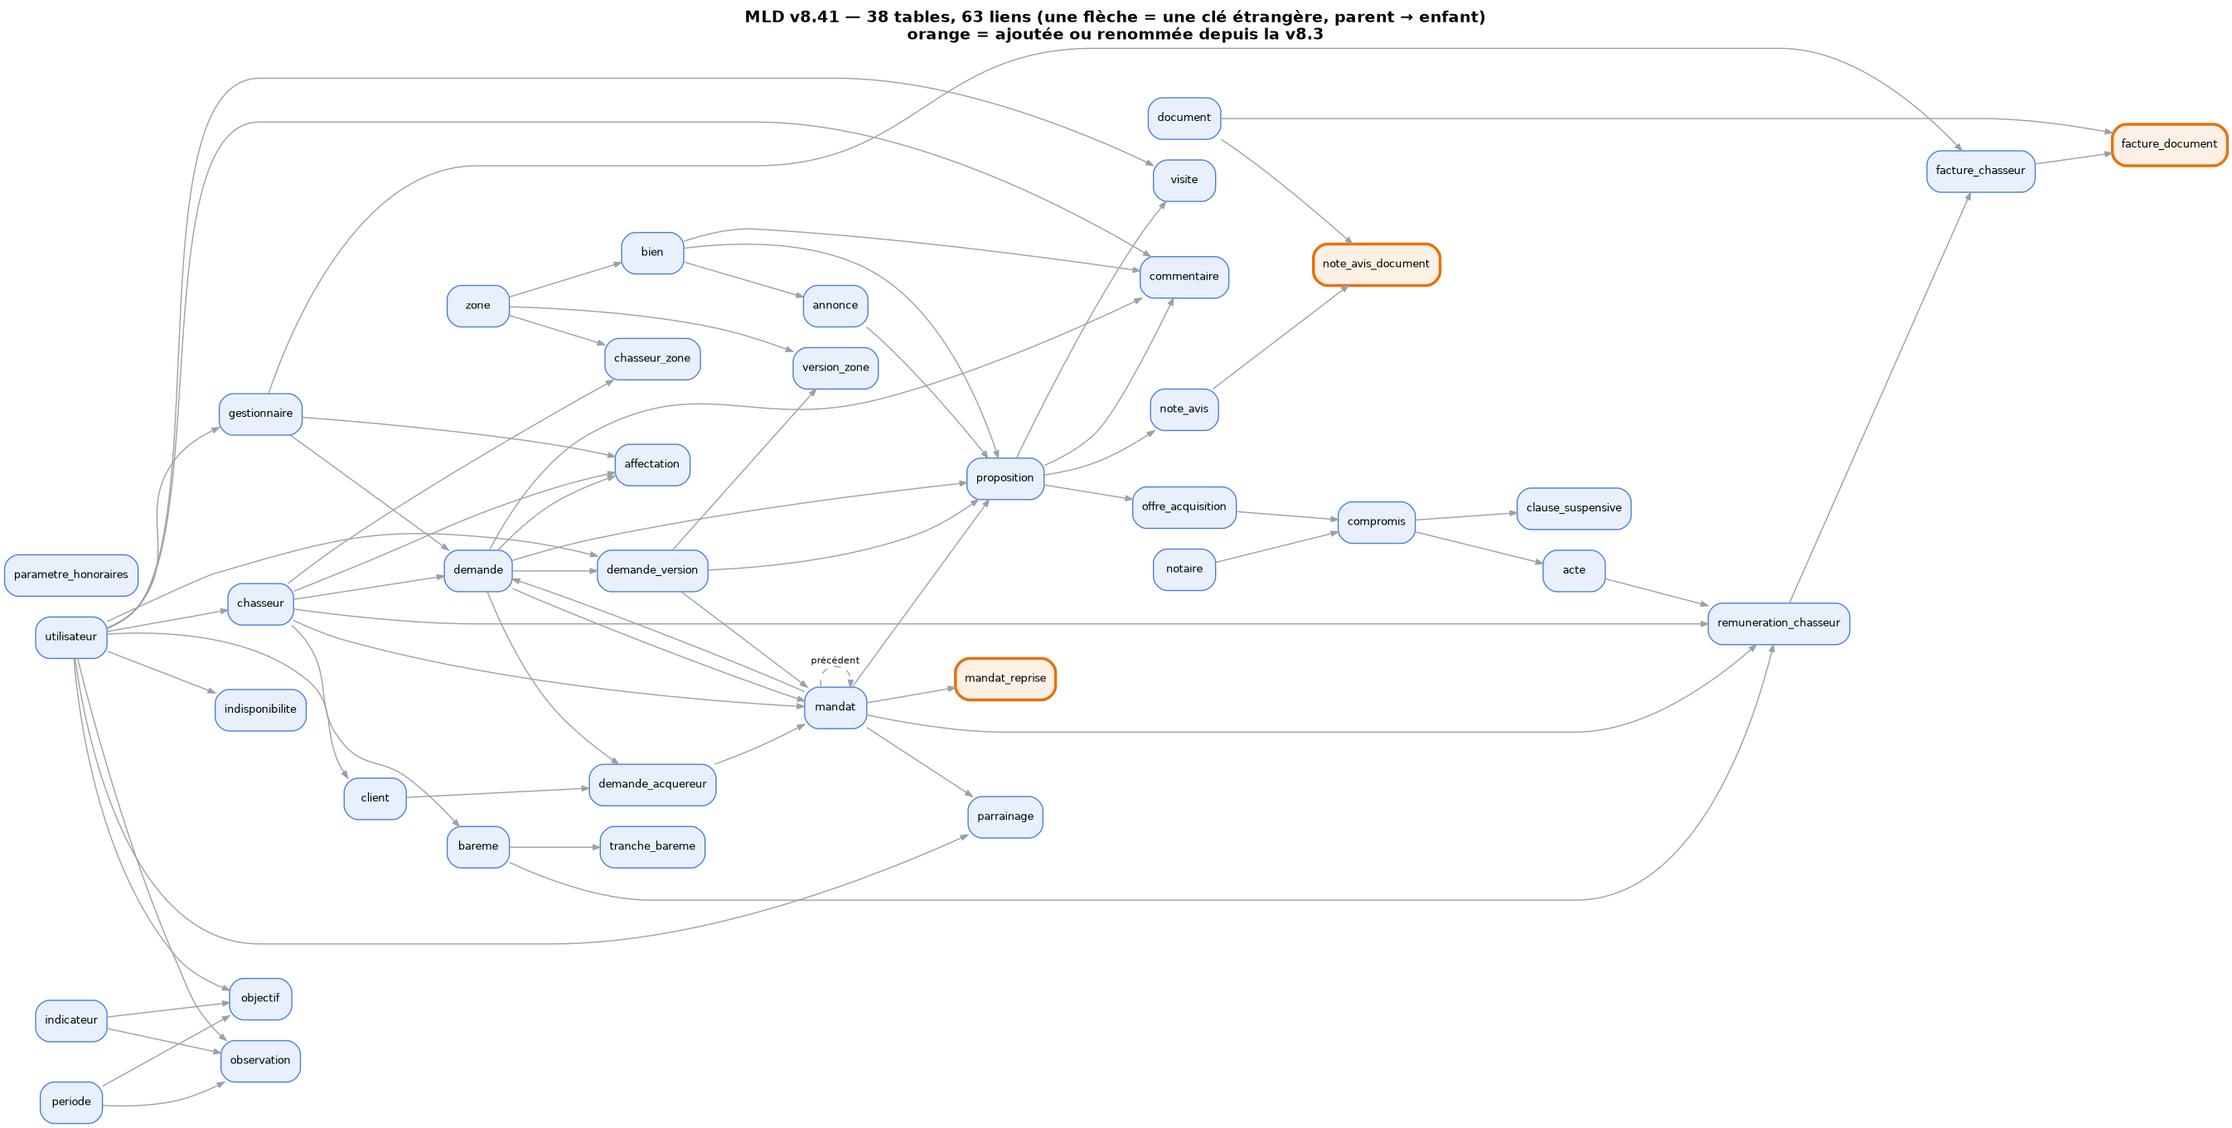
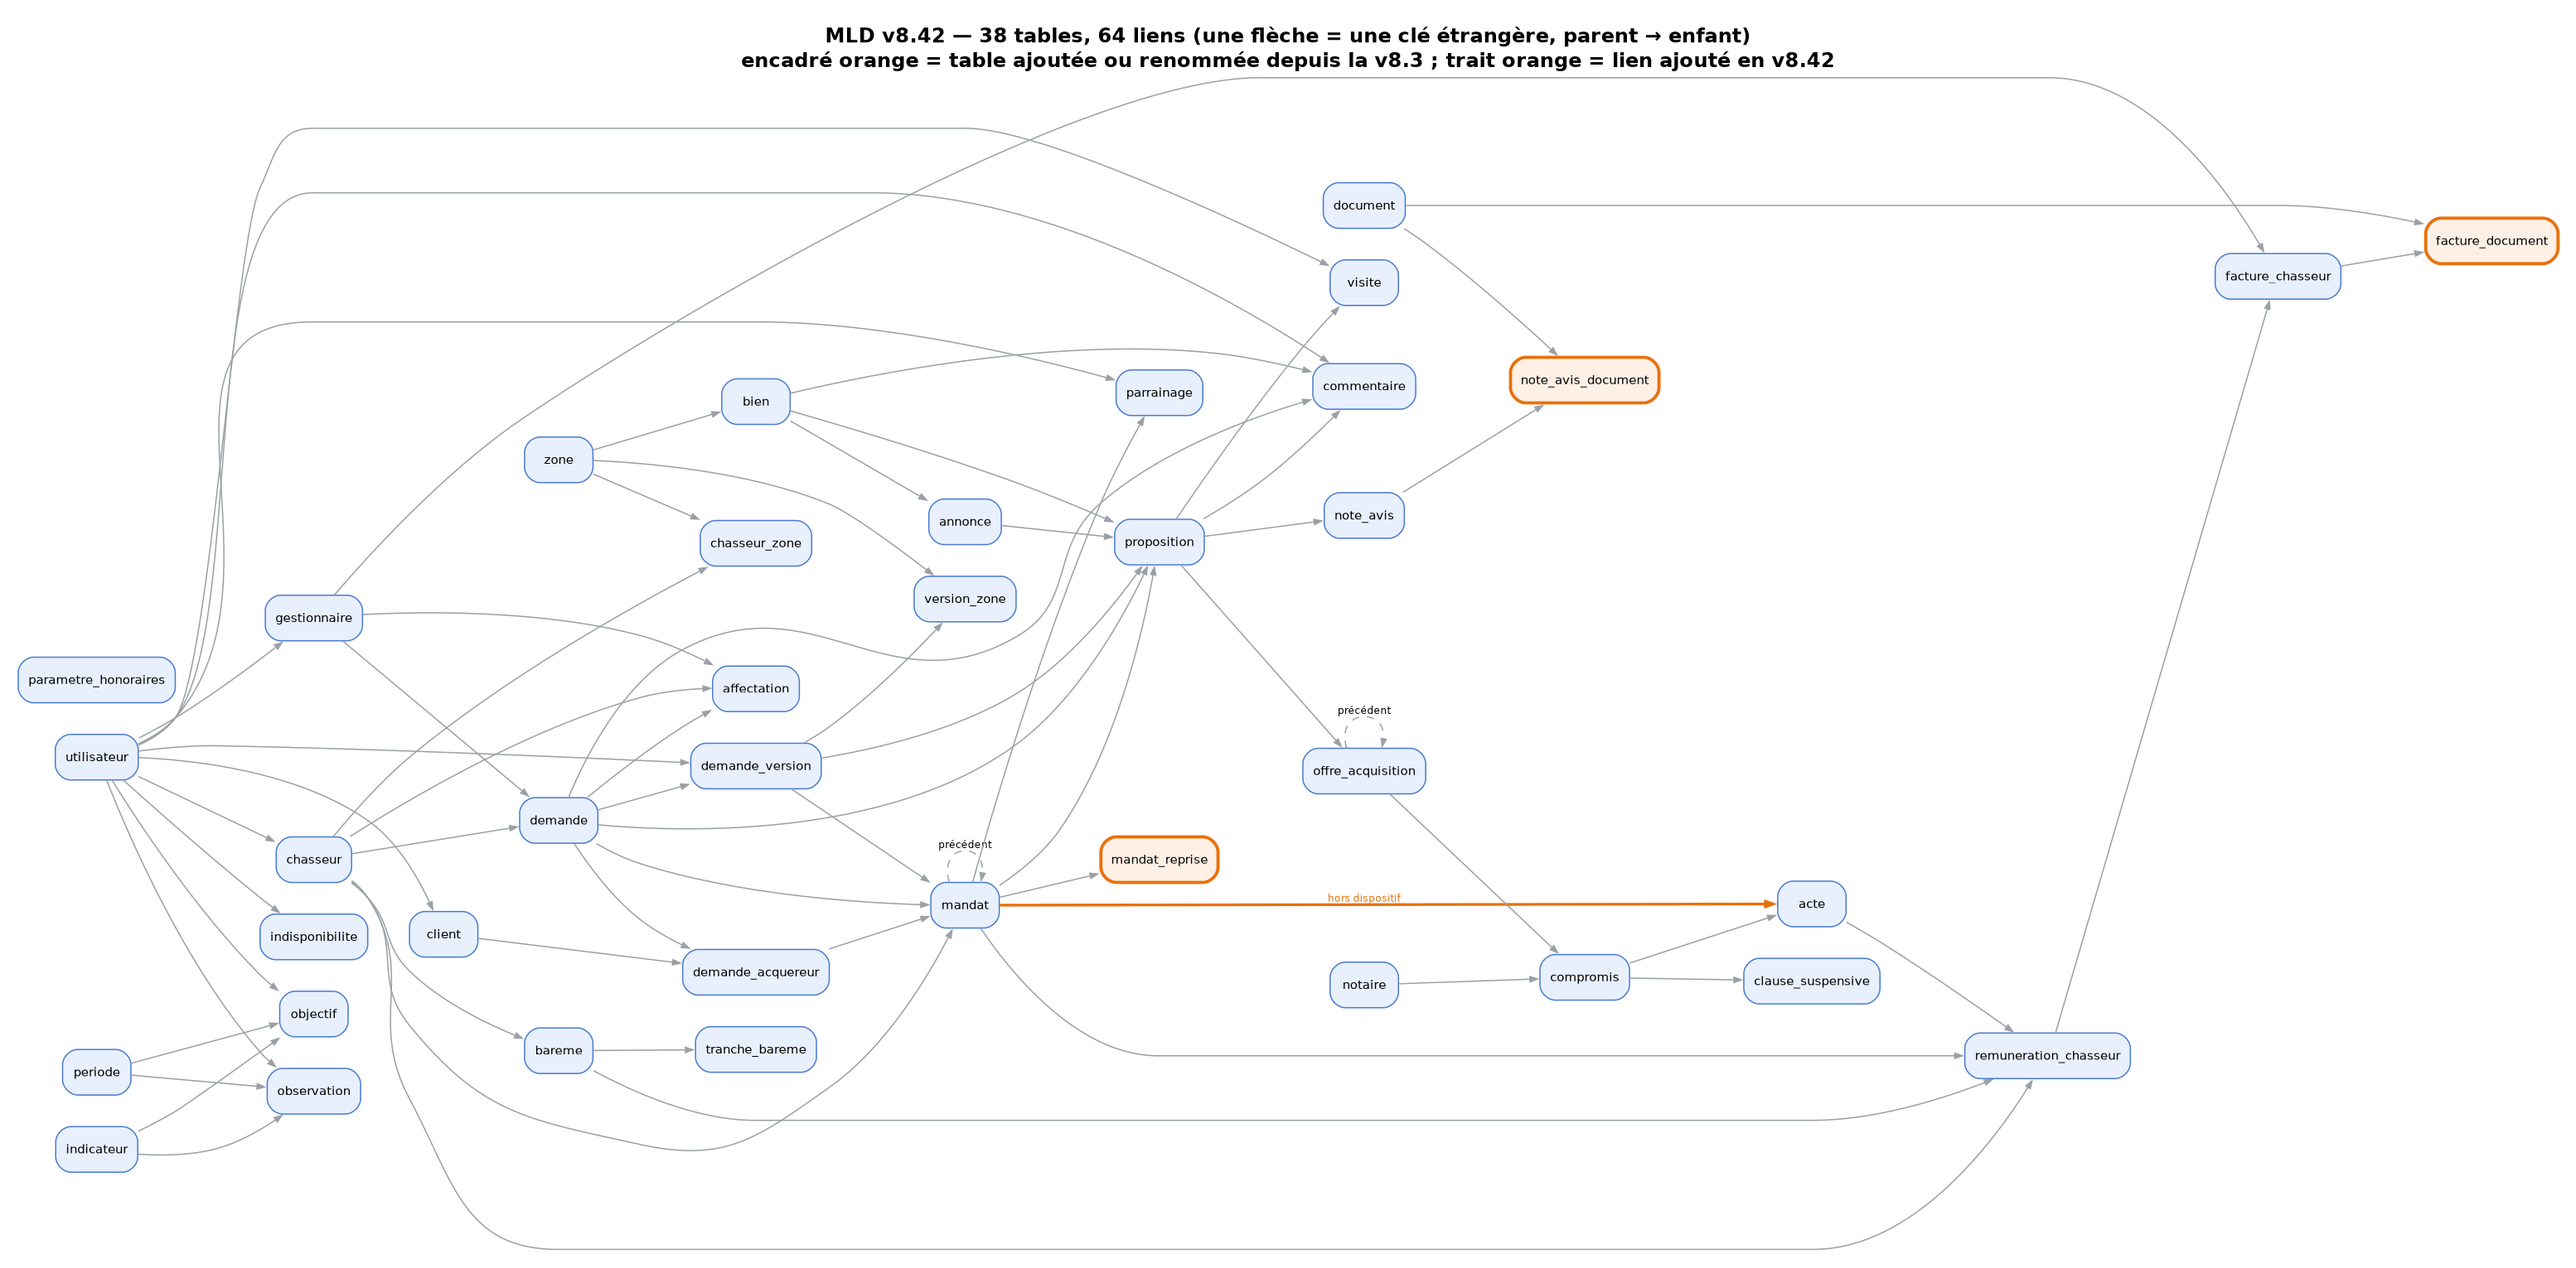
docs(merise): MCD et MLD v8.42 régénérés, sources Graphviz versionnées
- MCD : lien MANDAT -> ACTE « 0,1 achat hors dispositif » (ADR-053),
  COMPROMIS -> ACTE en 0,1
- MLD : généré depuis les clés étrangères du DDL (38 tables, 64 liens,
  lien mandat -> acte en orange) ; le générateur retrouve les 63 liens
  de l'image v8.41 sur l'ancien DDL
- sources/ : mcd-concept.dot, mld-relationnel.dot, generer_diagrammes.py
  (rendu par Graphviz 14.1.2)

diff --git a/livrables/documentation/merise/sources/generer_diagrammes.py b/livrables/documentation/merise/sources/generer_diagrammes.py
@@ -1,0 +1,84 @@
+#!/usr/bin/env python3
+"""Régénère les images du MCD et du MLD (Graphviz).
+
+- MCD : `mcd-concept.dot`, rédigé à la main (niveau conceptuel : entités et associations
+  principales, avec leur sens métier).
+- MLD : produit MÉCANIQUEMENT depuis `livrables/db/01_ddl.sql` (une flèche par couple
+  parent → enfant relié par au moins une clé étrangère). Il ne peut donc pas dériver du schéma.
+
+Usage :
+    python livrables/documentation/merise/sources/generer_diagrammes.py
+Écrit `mld-relationnel.dot` à côté de ce script, puis les PNG dans le dossier merise
+si la commande `dot` (Graphviz) est disponible ; sinon, seulement les fichiers .dot.
+"""
+import pathlib
+import re
+import shutil
+import subprocess
+import sys
+
+ICI = pathlib.Path(__file__).resolve().parent
+MERISE = ICI.parent
+DDL = MERISE.parents[1] / "db" / "01_ddl.sql"
+VERSION = "v8.42"
+
+# Tables ajoutées ou renommées depuis la v8.3 (encadré orange), et liens ajoutés en v8.42 (trait orange).
+TABLES_RECENTES = {"mandat_reprise", "note_avis_document", "facture_document"}
+LIENS_V842 = {("mandat", "acte")}
+
+
+def cles_etrangeres(ddl_texte):
+    """(tables, liens) : liens = couples distincts (parent, enfant) reliés par une clé étrangère."""
+    sql = re.sub(r"--[^\n]*", "", ddl_texte)
+    tables = {m.group(1): m.group(2) for m in re.finditer(r"CREATE TABLE (\w+) \((.*?)\n\);", sql, re.S)}
+    liens = set()
+    for enfant, corps in tables.items():
+        for r in re.finditer(r"REFERENCES\s+(\w+)", corps):
+            liens.add((r.group(1), enfant))
+    for enfant, parent in re.findall(r"ALTER TABLE (\w+)\s+ADD CONSTRAINT \w+ FOREIGN KEY .*? REFERENCES (\w+)", sql, re.S):
+        liens.add((parent, enfant))
+    return sorted(tables), sorted(liens)
+
+
+def dot_mld(tables, liens):
+    lignes = [
+        "// MLD — GÉNÉRÉ par generer_diagrammes.py depuis livrables/db/01_ddl.sql : ne pas modifier à la main.",
+        "digraph MLD {",
+        f'  graph [label="MLD {VERSION} — {len(tables)} tables, {len(liens)} liens (une flèche = une clé étrangère, parent → enfant)\\n'
+        'encadré orange = table ajoutée ou renommée depuis la v8.3 ; trait orange = lien ajouté en v8.42", '
+        'labelloc=t, fontname="Helvetica-Bold", fontsize=16, rankdir=LR, nodesep=0.35, ranksep=0.9, pad=0.2];',
+        '  node [shape=box, style="rounded,filled", fontname="Helvetica", fontsize=10, fillcolor="#e8f0fe", color="#4a7bd0"];',
+        '  edge [color="#9aa0a6", arrowsize=0.6, fontname="Helvetica"];',
+    ]
+    for t in tables:
+        style = ' [fillcolor="#fff0e6", color="#e8710a", penwidth=2.5]' if t in TABLES_RECENTES else ""
+        lignes.append(f"  {t}{style};")
+    for parent, enfant in liens:
+        if parent == enfant:
+            lignes.append(f'  {parent} -> {enfant} [label="précédent", fontsize=8, style=dashed];')
+        elif (parent, enfant) in LIENS_V842:
+            lignes.append(f'  {parent} -> {enfant} [color="#e8710a", penwidth=2.2, label="hors dispositif", fontsize=8, fontcolor="#e8710a"];')
+        else:
+            lignes.append(f"  {parent} -> {enfant};")
+    lignes.append("}")
+    return "\n".join(lignes) + "\n"
+
+
+def rendre(source, cible):
+    dot = shutil.which("dot")
+    if not dot:
+        print(f"Graphviz absent : {source.name} écrit, {cible.name} non régénéré.")
+        return False
+    subprocess.run([dot, "-Tpng", "-Gdpi=110", str(source), "-o", str(cible)], check=True)
+    print(f"Écrit : {cible}")
+    return True
+
+
+if __name__ == "__main__":
+    tables, liens = cles_etrangeres(DDL.read_text(encoding="utf-8"))
+    mld = ICI / "mld-relationnel.dot"
+    mld.write_text(dot_mld(tables, liens), encoding="utf-8", newline="\n")
+    print(f"MLD : {len(tables)} tables, {len(liens)} liens -> {mld.name}")
+    ok = rendre(ICI / "mcd-concept.dot", MERISE / "mcd-v841-concept.png")
+    ok = rendre(mld, MERISE / "mld-v841-relationnel.png") and ok
+    sys.exit(0 if ok else 2)

diff --git a/livrables/documentation/merise/dossier-modelisation-v841.md b/livrables/documentation/merise/dossier-modelisation-v841.md
@@ -96,7 +96,7 @@ erDiagram
     MANDAT ||--o| PARRAINAGE : "concrétise"
 ```
 
-![MCD v8.41](mcd-v841-concept.png)
+![MCD v8.42](mcd-v841-concept.png)
 
 **Lecture des liens structurants.** Un `utilisateur` est spécialisé en `client`,
 `chasseur` ou `gestionnaire` (héritage par clé partagée). Une `demande` porte au
@@ -115,7 +115,9 @@ sous mandat exclusif, dont l'acte se rattache directement au mandat (ADR-053).
 Diagramme généré depuis les **clés étrangères du schéma réel** (une flèche = une clé étrangère, du parent
 vers l'enfant). Le détail colonne par colonne est dans `dictionnaire-colonnes-v841.md` :
 
-![MLD v8.41 relationnel](mld-v841-relationnel.png)
+![MLD v8.42 relationnel](mld-v841-relationnel.png)
+
+*Les deux images sont produites par Graphviz à partir du dossier [sources](sources/). Le MCD est rédigé à la main ; le MLD est généré à partir des clés étrangères du DDL, il ne peut donc pas dériver du schéma. Régénération : `python livrables/documentation/merise/sources/generer_diagrammes.py`.*
 
 Six domaines : **acteurs** (utilisateur et spécialisations, parrainage),
 **demande** (besoin, versions, affectation, zones), **biens** (bien, annonce,
